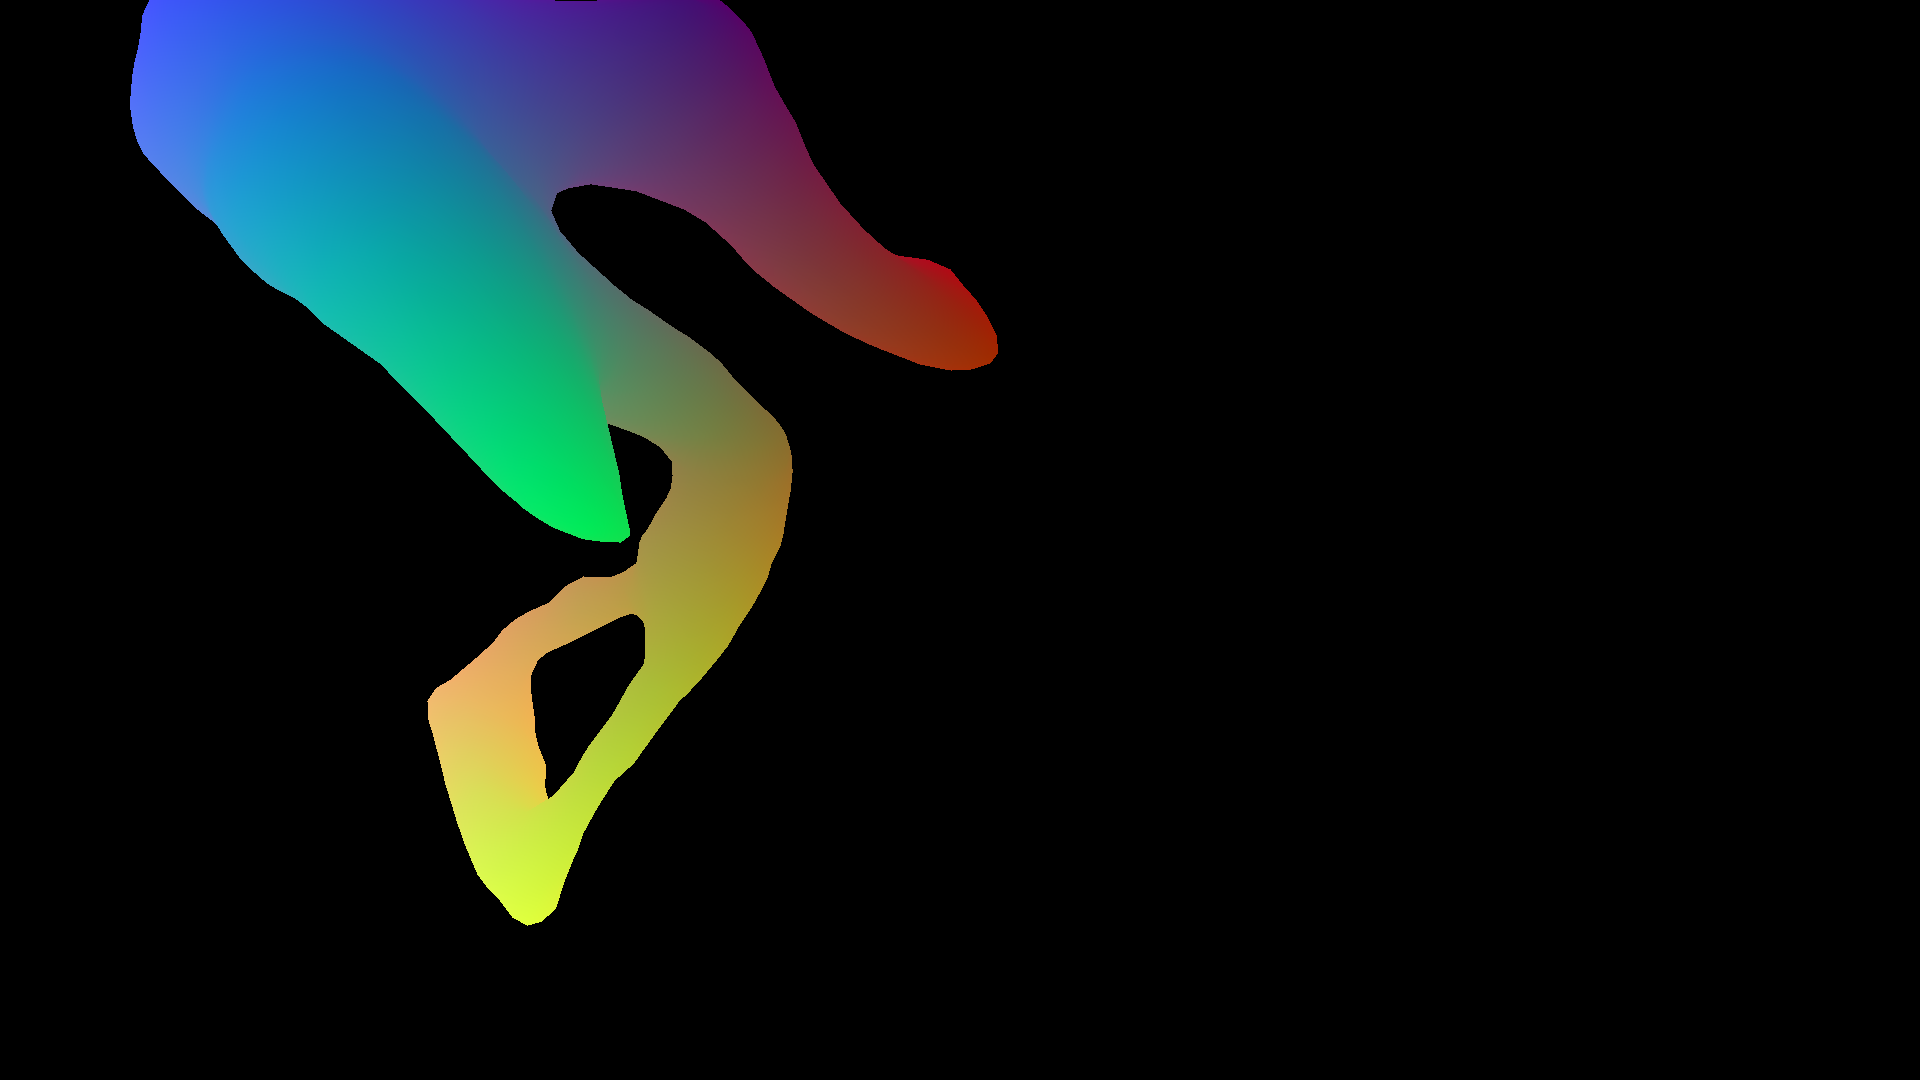
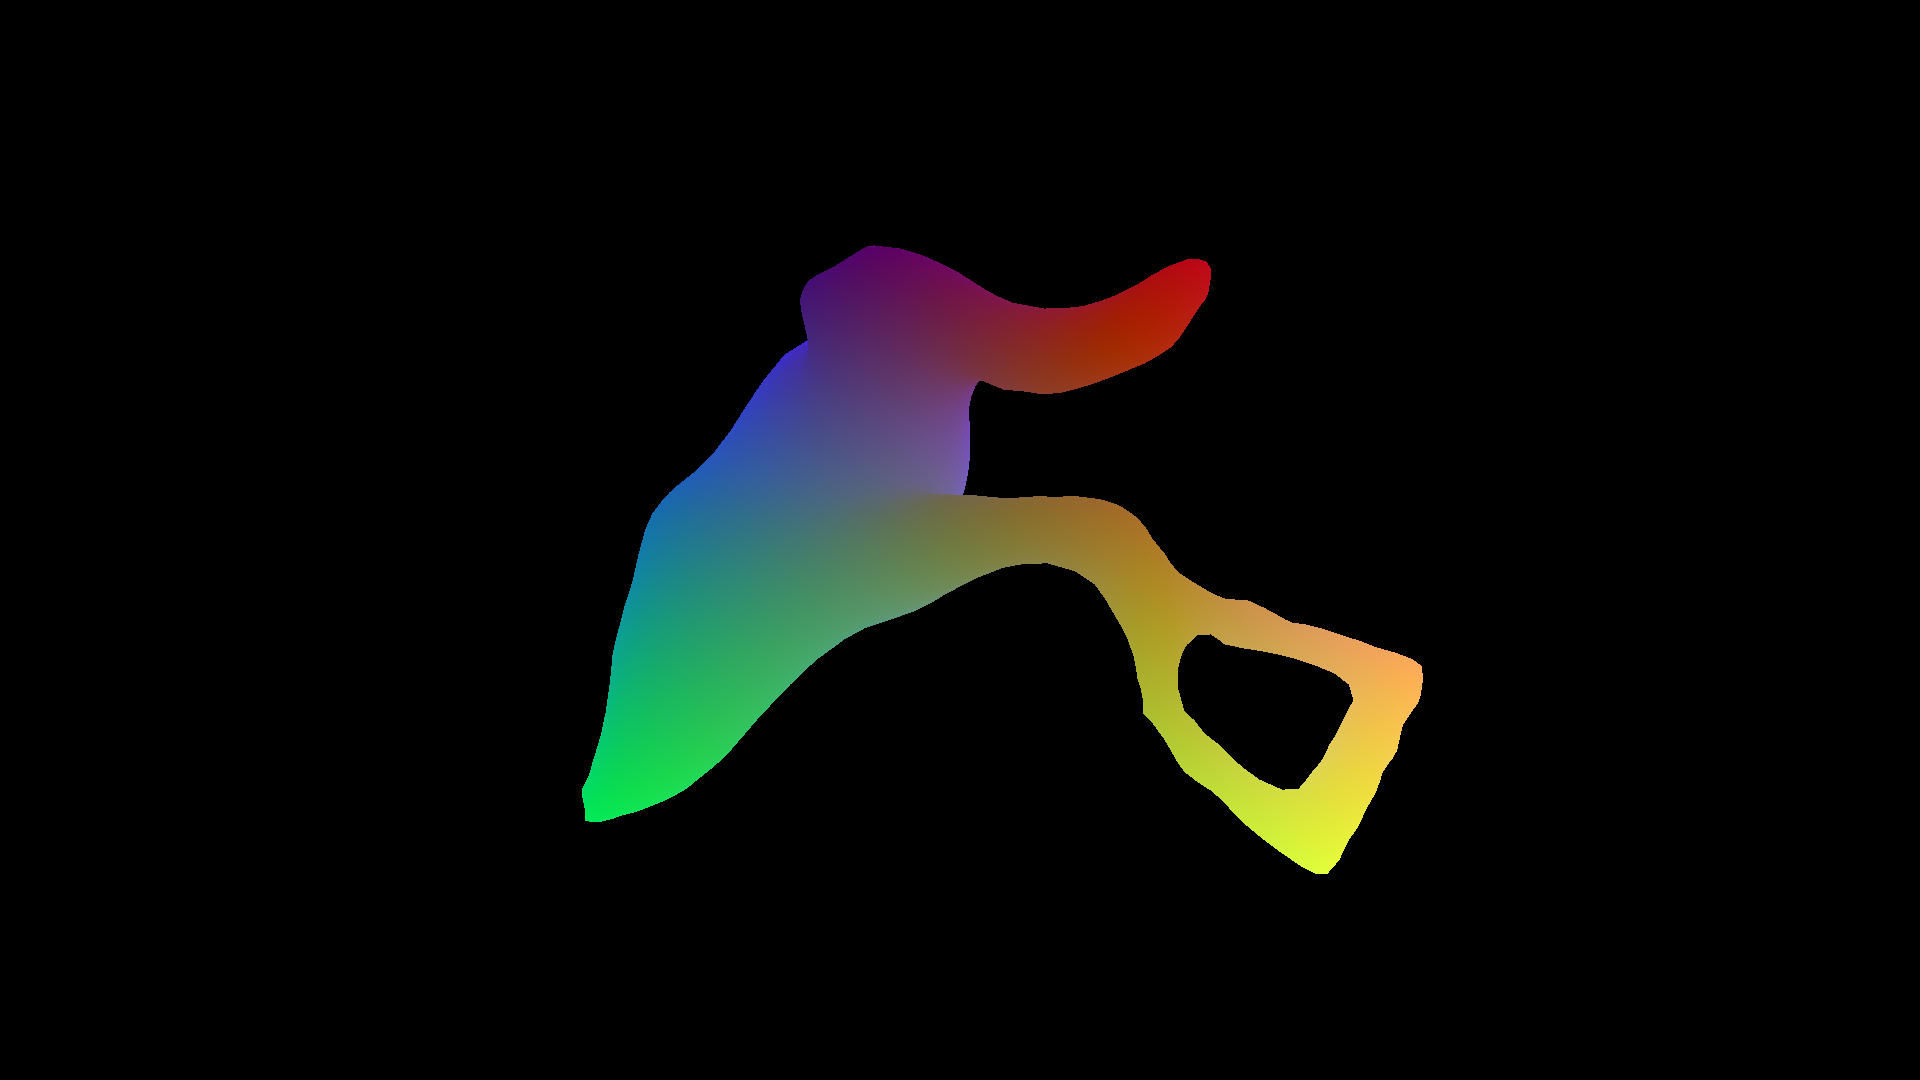
changes

Changed region(s): [[0.0625, 0.0, 0.75, 0.8556]]

diff --git a/vision6D/app.py b/vision6D/app.py
@@ -46,8 +46,9 @@ class App:
         self.camera = pv.Camera()
         self.cam_focal_length = cam_focal_length
         self.cam_viewup = cam_viewup
+        self.cam_position = -(self.cam_focal_length/100)/scale
         self.set_camera_intrinsics(self.window_size[0], self.window_size[1], self.cam_focal_length)
-        self.set_camera_extrinsics(self.cam_focal_length, self.scale, self.cam_viewup)
+        self.set_camera_extrinsics(self.cam_position, self.cam_viewup)
         
         # Set the attribute and its implications
         self.set_register(register)
@@ -75,8 +76,8 @@ class App:
     def set_surface_opacity(self, surface_opacity: float):
         self.surface_opacity = surface_opacity
 
-    def set_camera_extrinsics(self, cam_focal_length, scale, cam_viewup):
-        self.camera.SetPosition((0,0,-(cam_focal_length/100)/scale))
+    def set_camera_extrinsics(self, cam_position, cam_viewup):
+        self.camera.SetPosition((0,0,cam_position))
         self.camera.SetFocalPoint((0,0,0))
         self.camera.SetViewUp(cam_viewup)
     
@@ -98,9 +99,9 @@ class App:
         wcy =  2*(cy - float(height)/2) / height
         self.camera.SetWindowCenter(wcx, wcy) # (0,0)
         
-        # Setting the focal length
-        view_angle = 180 / math.pi * (2.0 * math.atan2(height/2.0, f))
-        self.camera.SetViewAngle(view_angle) # ~30 degree
+        # Setting the view angle in degrees
+        view_angle = (180 / math.pi) * (2.0 * math.atan2(height/2.0, f)) # or view_angle = np.degrees(2.0 * math.atan2(height/2.0, f))
+        self.camera.SetViewAngle(view_angle) # view angle should be in degrees
         
     def set_transformation_matrix(self, matrix:np.ndarray):
         self.transformation_matrix = matrix
